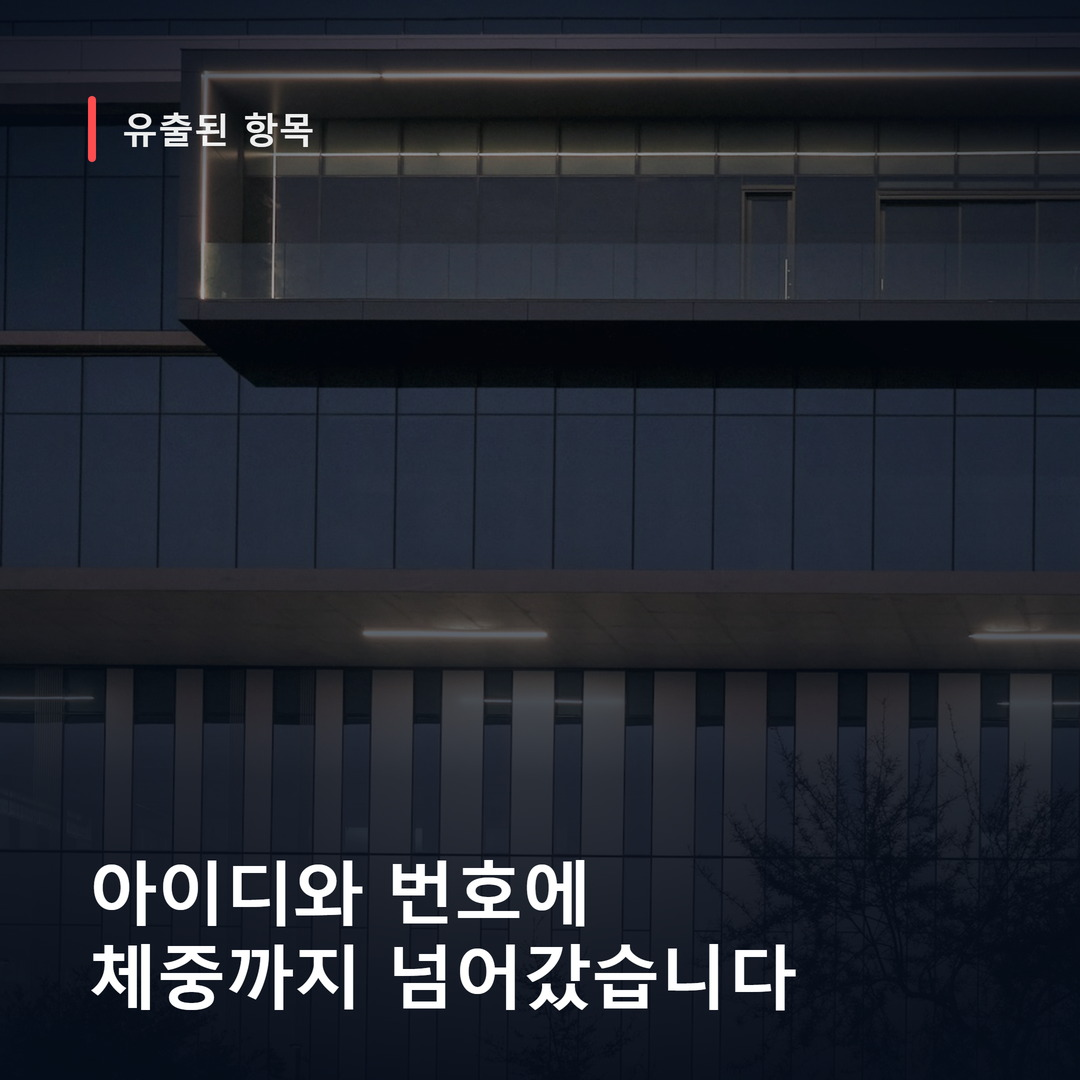
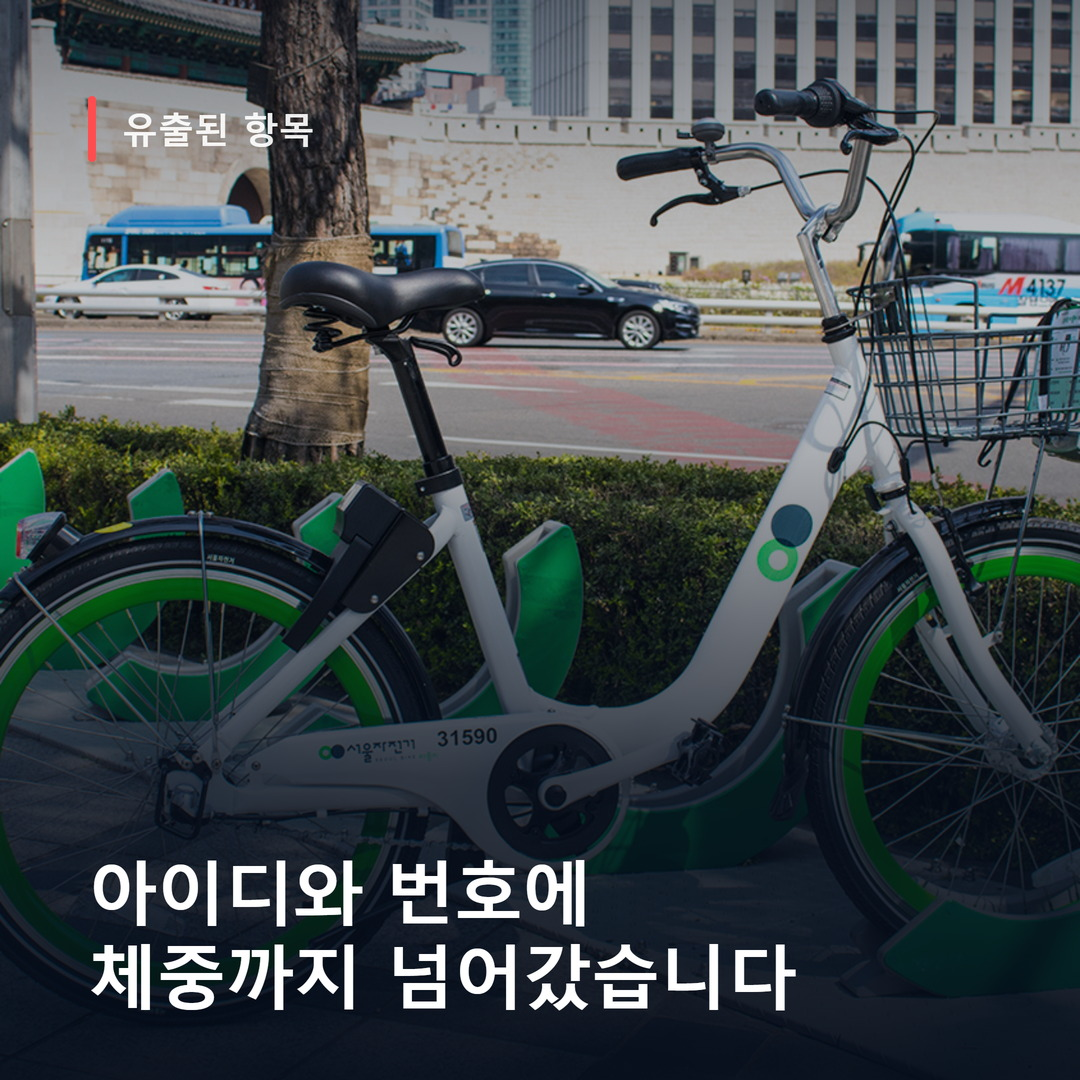
feat: 배경 사진 3단계 소싱 규칙 + 따릉이 실물 사진 적용
썸네일 배경이 소재와 무관했던 문제를 규칙으로 해결.
source_photo.py: 고유명사→Wikimedia, 일반명사→스톡, 실패→dim 폴백.
라이선스 자동 필터 + index.json 출처 기록.

실측: 한글 고유명사는 한글로 검색해야 한다.
  따릉이 6건 / Ttareungi 0건 / Seoul Bike Ttareungi 0건

1·2번 사진을 따릉이 실물로 재렌더. 운영 매뉴얼 3-3절 신설.

diff --git a/_engine/source_photo.py b/_engine/source_photo.py
@@ -1,0 +1,146 @@
+# -*- coding: utf-8 -*-
+"""제목에서 뽑은 핵심 명사로 배경 사진을 구해온다 — 3단계 폴백.
+
+왜 이 파일이 필요한가
+---------------------
+홈판 썸네일은 "카피와 배경이 같은 얘기를 해야" 한다.
+따릉이 글에 엉뚱한 건물 사진을 깔면 그 순간 아마추어가 된다.
+그런데 스톡 사이트에는 '따릉이' 같은 실존 브랜드가 없다.
+그래서 소스를 종류별로 나눠서 순서대로 내려간다.
+
+  1단계  고유명사(따릉이·서울시설공단·국민연금)  -> Wikimedia Commons
+  2단계  일반명사(자전거·쿠폰·문자·고지서)        -> Pexels / Unsplash 스톡
+  3단계  둘 다 0건                                -> 어두운 단색 폴백(dim 0.6+)
+
+⚠ 실측 (2026-08-10)
+  한글 고유명사는 반드시 **한글 그대로** 검색해야 한다. 영문 음차는 거의 0건이다.
+      '따릉이'                -> 6건
+      'Ttareungi'             -> 0건
+      'Seoul Bike Ttareungi'  -> 0건
+  영문 검색어는 일반명사 단계에서만 의미가 있다.
+
+사용
+----
+    python _engine/source_photo.py 따릉이 --general 자전거 대여소 --slug ttareungi
+"""
+from __future__ import annotations
+
+import argparse
+import json
+import os
+import pathlib
+import shutil
+import sys
+
+# 엔진은 economy-blog 것을 그대로 재사용한다 (홈판 복제가이드 9절: 코드 100% 재사용).
+ECON_ENGINE = os.getenv(
+    "ECON_ENGINE",
+    r"C:\Users\you64\OneDrive\문서\GitHub\경제비버\_engine",
+)
+sys.path.insert(0, ECON_ENGINE)
+
+import image_sourcing as isrc  # noqa: E402
+
+REPO = pathlib.Path(__file__).resolve().parent.parent
+PHOTO_DIR = REPO / "assets" / "photos"
+INDEX = PHOTO_DIR / "index.json"
+
+# 재게시 가능한 라이선스만 채택한다. 뉴스 보도사진 무단 전재는 금지.
+LICENSE_OK = ("public domain", "cc0", "cc by", "cc by-sa", "kogl")
+
+
+def license_ok(credit: str) -> bool:
+    c = (credit or "").lower()
+    return any(k in c for k in LICENSE_OK)
+
+
+def _load_index() -> dict:
+    if not INDEX.exists():
+        return {}
+    try:
+        return json.loads(INDEX.read_text(encoding="utf-8"))
+    except (json.JSONDecodeError, OSError):
+        return {}          # 손상되면 새로 시작한다 (기록용이라 복구 불필요)
+
+
+def _save_index(data: dict) -> None:
+    PHOTO_DIR.mkdir(parents=True, exist_ok=True)
+    tmp = INDEX.with_suffix(".json.tmp")
+    tmp.write_text(json.dumps(data, ensure_ascii=False, indent=2), encoding="utf-8")
+    os.replace(tmp, INDEX)   # 원자적 쓰기 — OneDrive가 파일을 NUL로 만든 사례가 있다
+
+
+def source(proper: str, general: list[str], slug: str, tmp_dir: pathlib.Path,
+           limit: int = 6) -> list[dict]:
+    """3단계 폴백으로 후보를 모은다. 반환은 [{path, credit, tier}, ...]."""
+    out: list[dict] = []
+
+    # 1단계 — 고유명사는 한글 그대로 Wikimedia 에 묻는다.
+    if proper:
+        try:
+            for c in isrc.wikimedia_photo_candidates(
+                    proper, str(tmp_dir), limit=limit, min_width=1200):
+                if isinstance(c, dict) and c.get("path"):
+                    out.append({"path": c["path"], "credit": c.get("credit", ""),
+                                "tier": "wikimedia", "query": proper})
+        except Exception as e:                      # 네트워크·API 변덕은 치명적이지 않다
+            print(f"  [1단계 실패] {type(e).__name__}: {e}")
+    print(f"  1단계(고유명사 '{proper}') → {len(out)}건")
+
+    # 2단계 — 일반명사는 스톡에서. 1단계가 충분하면 건너뛴다.
+    if len(out) < 3:
+        for q in general:
+            try:
+                for c in isrc.stock_photo_candidates(q, str(tmp_dir), keep=3,
+                                                     min_side=1200, prefix=f"st_{q}"):
+                    if isinstance(c, dict) and c.get("path"):
+                        out.append({"path": c["path"], "credit": c.get("credit", ""),
+                                    "tier": "stock", "query": q})
+            except Exception as e:
+                print(f"  [2단계 실패:{q}] {type(e).__name__}: {e}")
+        print(f"  2단계(일반명사 {general}) 포함 누적 → {len(out)}건")
+
+    # 3단계 — 아무것도 못 구하면 호출부가 dim 폴백으로 간다.
+    if not out:
+        print("  3단계 → 후보 0건. 어두운 단색 배경(dim 0.6+)으로 가야 한다.")
+    return out
+
+
+def adopt(cands: list[dict], slug: str) -> list[str]:
+    """라이선스가 통과한 것만 assets/photos 로 옮기고 index.json 에 출처를 남긴다."""
+    PHOTO_DIR.mkdir(parents=True, exist_ok=True)
+    idx, saved = _load_index(), []
+    for i, c in enumerate(cands):
+        if not license_ok(c["credit"]):
+            print(f"  [제외] 라이선스 확인 불가 — {c['credit'][:60]}")
+            continue
+        name = f"{slug}_{len(saved)}.jpg"
+        shutil.copy2(c["path"], PHOTO_DIR / name)
+        idx[name] = {"credit": c["credit"], "tier": c["tier"], "query": c["query"]}
+        saved.append(name)
+    _save_index(idx)
+    return saved
+
+
+def main() -> None:
+    ap = argparse.ArgumentParser()
+    ap.add_argument("proper", help="고유명사 (한글 그대로. 예: 따릉이)")
+    ap.add_argument("--general", nargs="*", default=[], help="일반명사 폴백 검색어")
+    ap.add_argument("--slug", required=True, help="저장 파일 접두어 (예: ttareungi)")
+    a = ap.parse_args()
+
+    tmp = REPO / "_tmp_photos"
+    tmp.mkdir(exist_ok=True)
+    print(f"소싱: '{a.proper}' (폴백 {a.general})")
+    cands = source(a.proper, a.general, a.slug, tmp)
+    saved = adopt(cands, a.slug)
+
+    print(f"\n채택 {len(saved)}건 → {PHOTO_DIR}")
+    for s in saved:
+        print("  ", s)
+    print("\n⚠ 반드시 눈으로 확인하고 나서 커밋할 것 (.gitignore 가 무시하므로 git add -f).")
+    shutil.rmtree(tmp, ignore_errors=True)
+
+
+if __name__ == "__main__":
+    main()

diff --git a/_engine/HANDOFF_스포크_운영.md b/_engine/HANDOFF_스포크_운영.md
@@ -147,6 +147,46 @@
 > ⚠ 위 3가지는 **아직 A/B 검증 안 된 가설**이다. 10건 전부에 적용하지 말고
 > 2~3건에만 넣어 유입 차이를 본 뒤 확정한다.
 
+### 3-3. ⭐ 배경 사진 고르는 법 — 제목의 핵심 명사가 사진에 보여야 한다
+
+> 홈판 가이드 5절: **"카피와 배경이 같은 얘기를 해야 한다."**
+> 따릉이 글에 엉뚱한 건물 사진을 깔면 그 순간 아마추어가 된다.
+> 검색 키워드를 제목에 넣었으면 **그 키워드가 사진에도 있어야** 한다.
+
+**규칙: 제목의 핵심 명사 = 사진 검색어. 아래 순서로 내려간다.**
+
+| 단계 | 대상 | 소스 | 이유 |
+|---|---|---|---|
+| 1 | **고유명사** (따릉이·서울시설공단·국민연금) | Wikimedia Commons | 스톡에는 실존 브랜드가 없다 |
+| 2 | **일반명사** (자전거·쿠폰·문자·고지서) | Pexels / Unsplash | 브랜드 없는 상황 컷은 스톡이 낫다 |
+| 3 | 둘 다 0건 | 어두운 단색 + `dim` 0.6 이상 | 엉뚱한 사진보다 무배경이 낫다 |
+
+```bash
+python _engine/source_photo.py 따릉이 --general "public bicycle sharing" --slug ttareungi
+```
+
+**⚠ 한글 고유명사는 반드시 한글 그대로 검색한다 (2026-08-10 실측)**
+
+```
+'따릉이'                → 6건 ✅
+'Ttareungi'             → 0건 ❌
+'Seoul Bike Ttareungi'  → 0건 ❌
+```
+
+영문 음차는 거의 0건이다. 영문 검색어는 **2단계(일반명사)에서만** 쓴다.
+
+**지킬 것**
+- 라이선스가 확인된 것만 채택한다 (`Public domain` / `CC0` / `CC BY` / `CC BY-SA` / `KOGL`).
+  `source_photo.py` 가 자동으로 걸러내고 출처를 `assets/photos/index.json` 에 남긴다.
+  **뉴스 보도사진 무단 전재는 금지.**
+- 소싱 후 **반드시 눈으로 확인**한다. 주제 부적합·타 브랜드 오인 컷을 뺀다.
+- `.gitignore` 가 `assets/photos/*` 를 무시하므로 확정한 것만 `git add -f`.
+- 썸네일용은 **피사체가 위쪽~가운데** 있는 컷을 고른다. 하단은 카피가 덮는다.
+- 카테고리당 5~6장 쌓아두고 순환한다. 같은 사진이 3일 연속 나오면 눈이 지나친다.
+
+**dim 기준**: 사진이 밝고 복잡하면 `0.5~0.6`, 원래 어두우면 `0.3~0.4`.
+글자가 안 읽히면 폰트를 줄이지 말고 **dim 을 올린다** (가독성 > 사진 선명도).
+
 ---
 
 ## 4. 네이버 절대 규칙 (빌더가 강제 보정)
